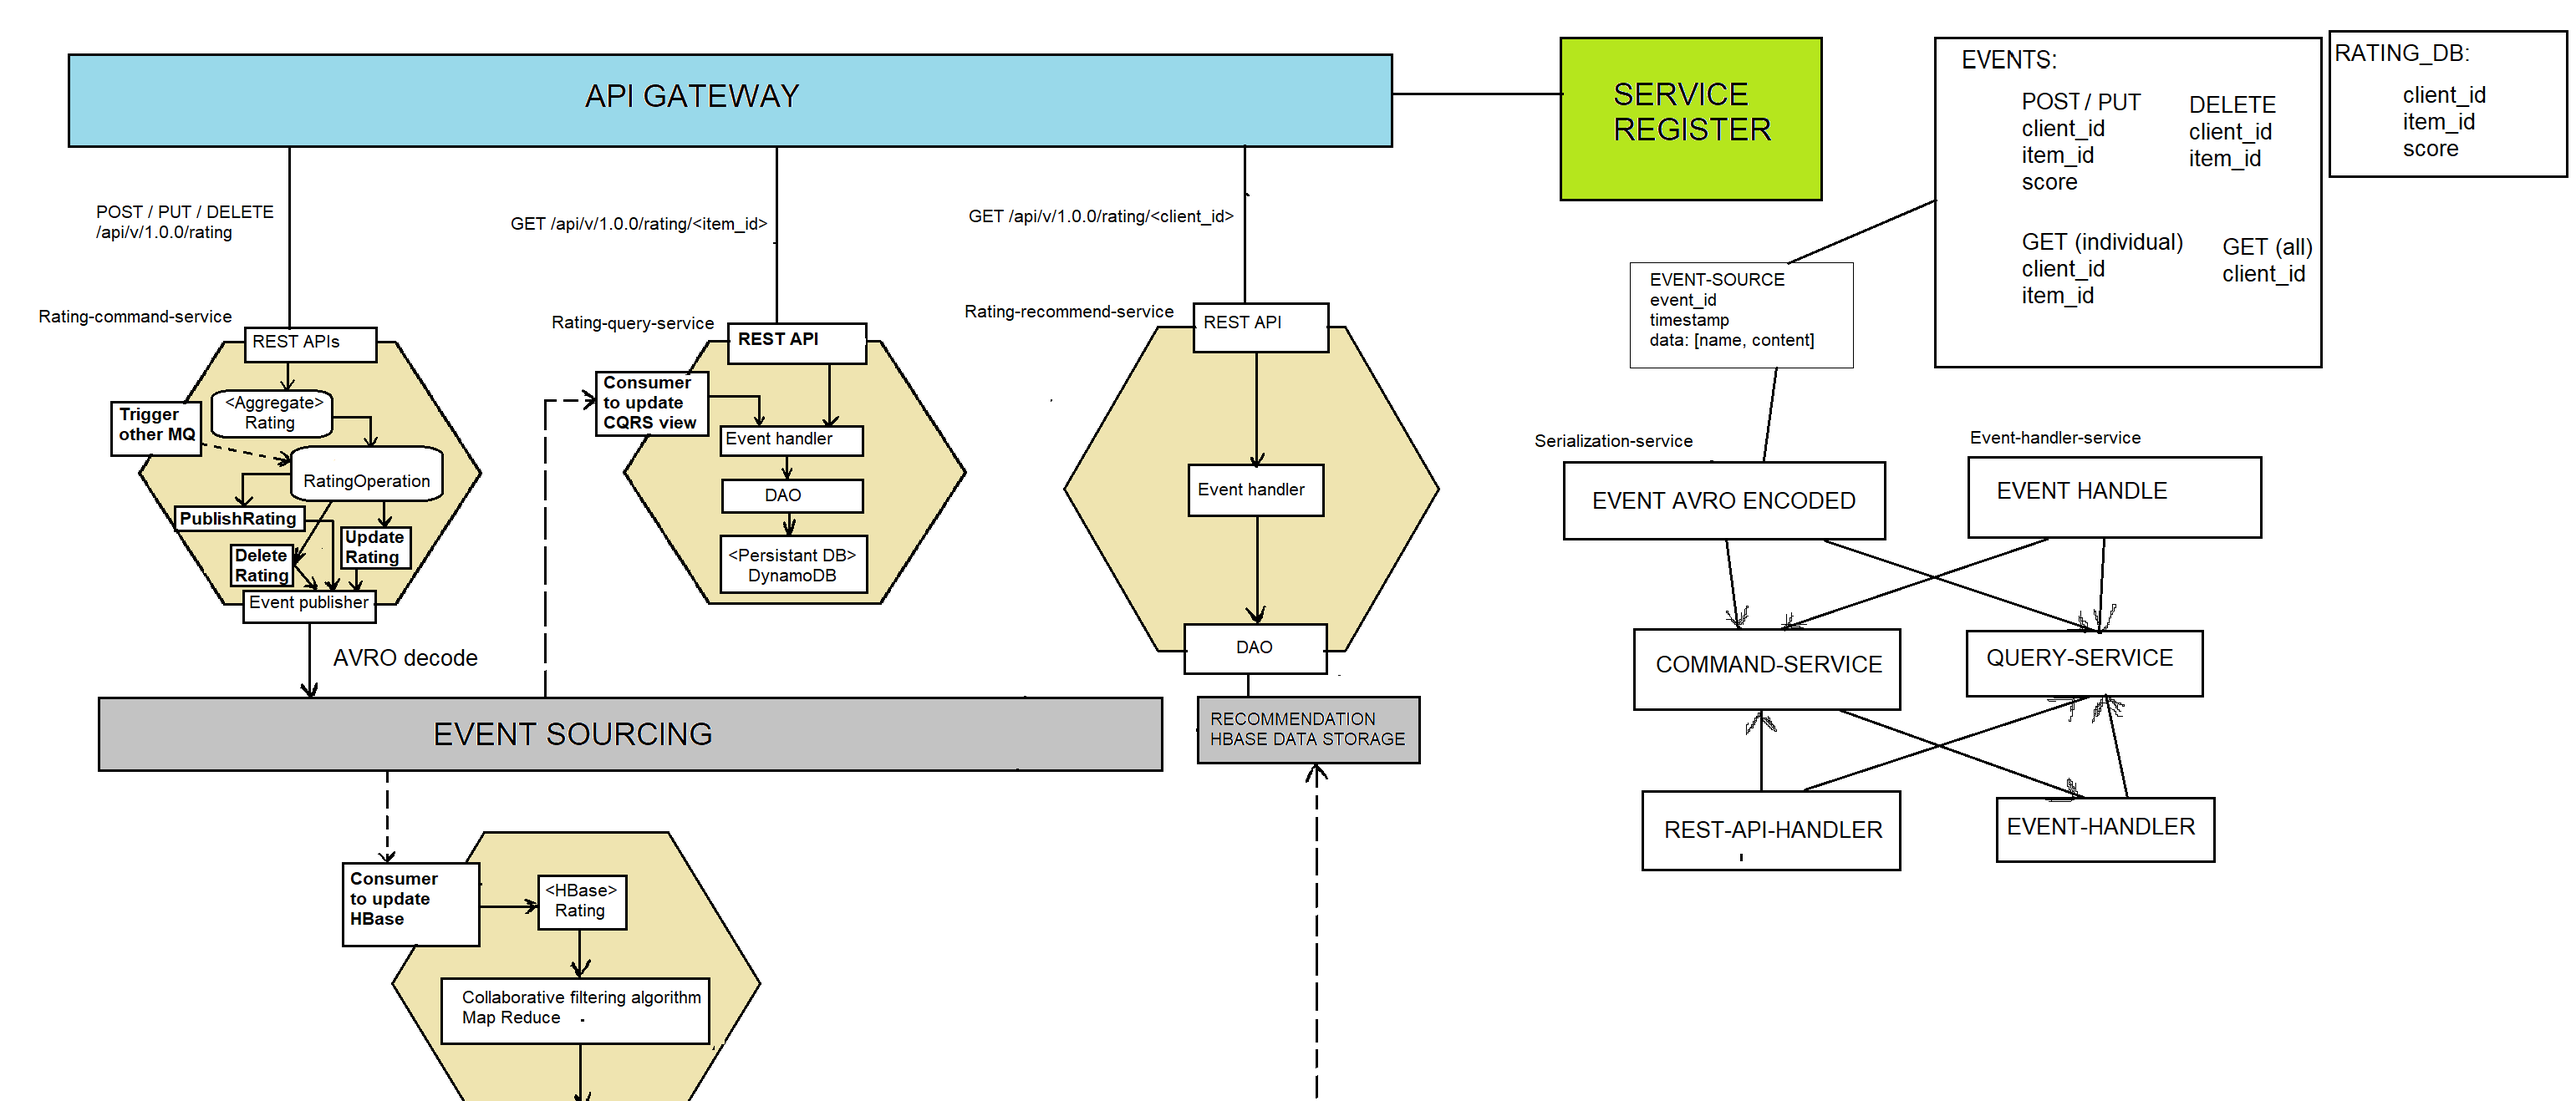
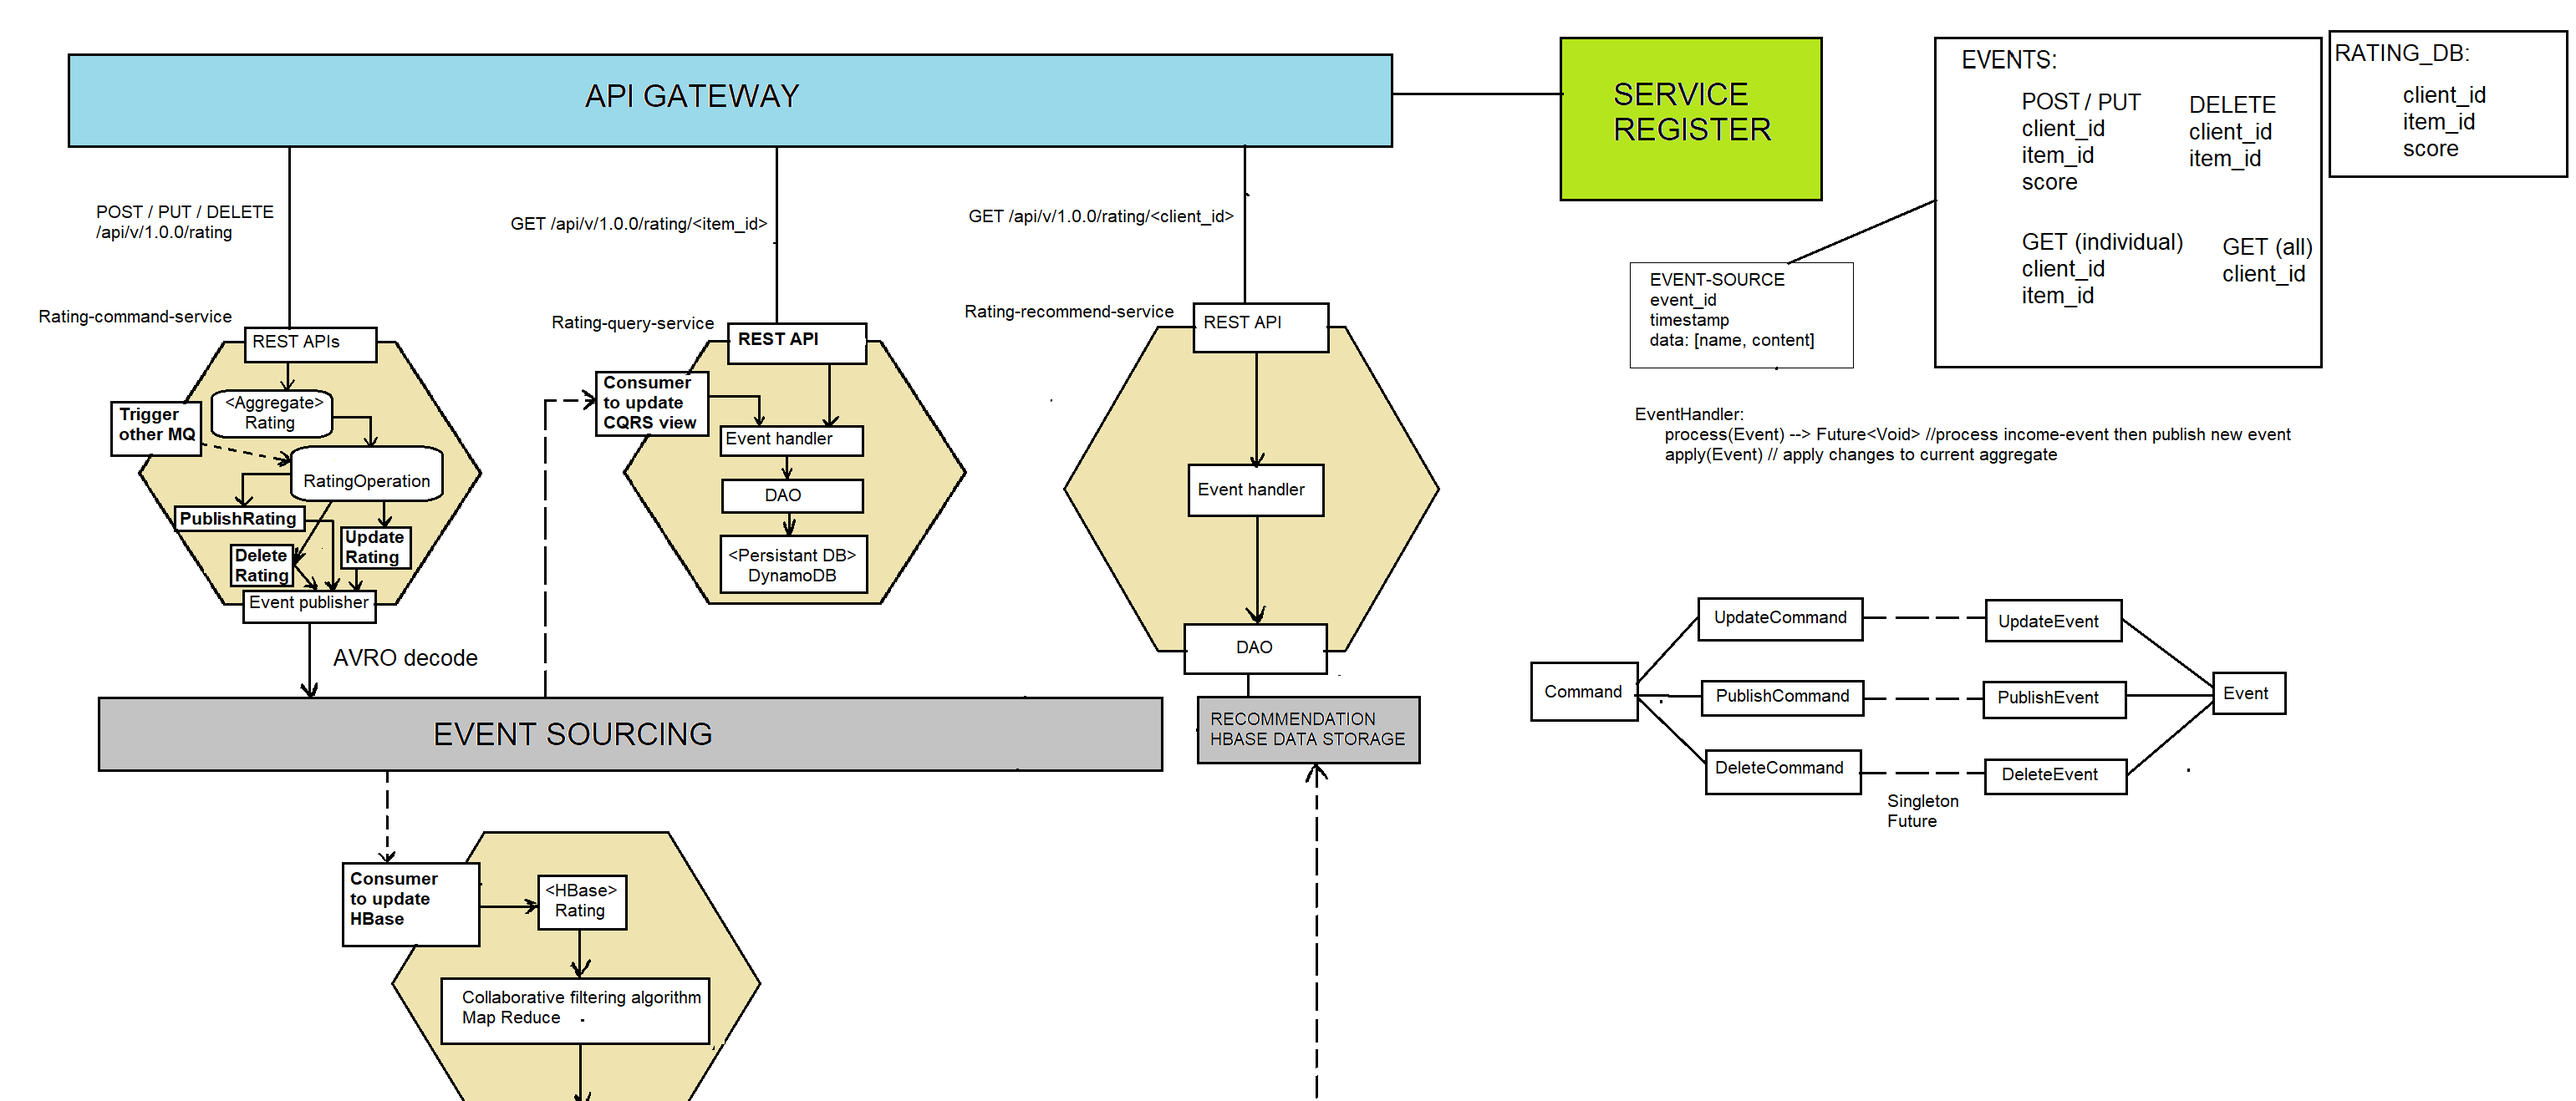
define rating command service

Changed region(s): [[0.5918, 0.5288, 0.9033, 0.7777], [0.5918, 0.3733, 0.8722, 0.4666]]

diff --git a/services/recommender_service/command-rating-service/src/main/java/vn/datnguyen/recommender/Domain/DeleteRatingCommand.java b/services/recommender_service/command-rating-service/src/main/java/vn/datnguyen/recommender/Domain/DeleteRatingCommand.java
@@ -1,16 +1,14 @@
-package vn.datnguyen.recommender.Commands;
+package vn.datnguyen.recommender.Domain;
 
 import java.util.Locale;
 
-public class PublishRatingCommand extends Command {
+public class DeleteRatingCommand extends Command {
     private String clientId; 
     private String itemId; 
-    private int score; 
 
-    public PublishRatingCommand(String clientId, String itemId, int score) {
+    public DeleteRatingCommand(String clientId, String itemId) {
         this.clientId = clientId; 
         this.itemId = itemId; 
-        this.score = score;
     }
 
     public String getClientId() {
@@ -29,18 +27,10 @@ public class PublishRatingCommand extends Command {
         this.itemId = itemId;
     }
 
-    public int getScore() {
-        return this.score;
-    }
-
-    public void setScore(int score) {
-        this.score = score;
-    }
-
     @Override
     public String toString() {
         return String.format(Locale.getDefault(), 
-                            "PublishRatingCommand(clientId=%s,itemId=%s,score=%d)",
-                            getClientId(), getItemId(), getScore());
+                            "DeleteRatingCommand(clientId=%s,itemId=%s)",
+                            getClientId(), getItemId());
     }
 }

diff --git a/services/recommender_service/command-rating-service/src/main/java/vn/datnguyen/recommender/Domain/UpdateRatingCommand.java b/services/recommender_service/command-rating-service/src/main/java/vn/datnguyen/recommender/Domain/UpdateRatingCommand.java
@@ -1,14 +1,16 @@
-package vn.datnguyen.recommender.Commands;
+package vn.datnguyen.recommender.Domain;
 
 import java.util.Locale;
 
-public class DeleteRatingCommand extends Command {
+public class UpdateRatingCommand extends Command {
     private String clientId; 
     private String itemId; 
+    private int score; 
 
-    public DeleteRatingCommand(String clientId, String itemId) {
+    public UpdateRatingCommand(String clientId, String itemId, int score) {
         this.clientId = clientId; 
         this.itemId = itemId; 
+        this.score = score;
     }
 
     public String getClientId() {
@@ -27,10 +29,18 @@ public class DeleteRatingCommand extends Command {
         this.itemId = itemId;
     }
 
+    public int getScore() {
+        return this.score;
+    }
+
+    public void setScore(int score) {
+        this.score = score;
+    }
+
     @Override
     public String toString() {
         return String.format(Locale.getDefault(), 
-                            "DeleteRatingCommand(clientId=%s,itemId=%s)",
-                            getClientId(), getItemId());
+                            "UpdateRatingCommand(clientId=%s,itemId=%s,score=%d)",
+                            getClientId(), getItemId(), getScore());
     }
 }

diff --git a/services/recommender_service/event-handler-common/src/main/java/vn/datnguyen/recommender/Domain/UpdateRatingEvent.java b/services/recommender_service/event-handler-common/src/main/java/vn/datnguyen/recommender/Domain/UpdateRatingEvent.java
@@ -1,14 +1,13 @@
-package vn.datnguyen.recommender.event;
+package vn.datnguyen.recommender.Domain;
 
 import java.util.Locale;
 
-public class PublishRatingEvent extends Event {
-
+public class UpdateRatingEvent extends Event {
     private final String clientId; 
     private final String itemId; 
     private final int score;
 
-    public PublishRatingEvent(final String clientId, final String itemId, final int score) {
+    public UpdateRatingEvent(final String clientId, final String itemId, final int score) {
         super();
         this.clientId = clientId; 
         this.itemId = itemId; 
@@ -30,8 +29,7 @@ public class PublishRatingEvent extends Event {
     @Override
     public String toString() {
         return String.format(Locale.getDefault(), 
-                "PublishRatingEvent{eventId=%s, clientId=%s, itemId=%s, score=%d}",
+                "UpdateRatingEvent{eventId=%s, clientId=%s, itemId=%s, score=%d}",
                 this.getEventId(), this.clientId, this.itemId, this.score);
     }
-    
 }

diff --git a/services/recommender_service/event-handler-common/src/main/java/vn/datnguyen/recommender/Domain/PublishRatingEvent.java b/services/recommender_service/event-handler-common/src/main/java/vn/datnguyen/recommender/Domain/PublishRatingEvent.java
@@ -1,13 +1,14 @@
-package vn.datnguyen.recommender.event;
+package vn.datnguyen.recommender.Domain;
 
 import java.util.Locale;
 
-public class UpdateRatingEvent extends Event {
+public class PublishRatingEvent extends Event {
+
     private final String clientId; 
     private final String itemId; 
     private final int score;
 
-    public UpdateRatingEvent(final String clientId, final String itemId, final int score) {
+    public PublishRatingEvent(final String clientId, final String itemId, final int score) {
         super();
         this.clientId = clientId; 
         this.itemId = itemId; 
@@ -29,7 +30,8 @@ public class UpdateRatingEvent extends Event {
     @Override
     public String toString() {
         return String.format(Locale.getDefault(), 
-                "UpdateRatingEvent{eventId=%s, clientId=%s, itemId=%s, score=%d}",
+                "PublishRatingEvent{eventId=%s, clientId=%s, itemId=%s, score=%d}",
                 this.getEventId(), this.clientId, this.itemId, this.score);
     }
+    
 }

diff --git a/services/recommender_service/command-rating-service/src/main/java/vn/datnguyen/recommender/Domain/PublishRatingCommand.java b/services/recommender_service/command-rating-service/src/main/java/vn/datnguyen/recommender/Domain/PublishRatingCommand.java
@@ -1,13 +1,13 @@
-package vn.datnguyen.recommender.Commands;
+package vn.datnguyen.recommender.Domain;
 
 import java.util.Locale;
 
-public class UpdateRatingCommand extends Command {
+public class PublishRatingCommand extends Command {
     private String clientId; 
     private String itemId; 
     private int score; 
 
-    public UpdateRatingCommand(String clientId, String itemId, int score) {
+    public PublishRatingCommand(String clientId, String itemId, int score) {
         this.clientId = clientId; 
         this.itemId = itemId; 
         this.score = score;
@@ -40,7 +40,7 @@ public class UpdateRatingCommand extends Command {
     @Override
     public String toString() {
         return String.format(Locale.getDefault(), 
-                            "UpdateRatingCommand(clientId=%s,itemId=%s,score=%d)",
+                            "PublishRatingCommand(clientId=%s,itemId=%s,score=%d)",
                             getClientId(), getItemId(), getScore());
     }
 }

diff --git a/services/recommender_service/command-rating-service/src/main/java/vn/datnguyen/recommender/Web/ApiController.java b/services/recommender_service/command-rating-service/src/main/java/vn/datnguyen/recommender/Web/ApiController.java
@@ -10,9 +10,9 @@ import org.springframework.web.bind.annotation.RequestBody;
 import org.springframework.web.bind.annotation.RequestMapping;
 import org.springframework.web.bind.annotation.RestController;
 
-import vn.datnguyen.recommender.Commands.DeleteRatingCommand;
-import vn.datnguyen.recommender.Commands.PublishRatingCommand;
-import vn.datnguyen.recommender.Commands.UpdateRatingCommand;
+import vn.datnguyen.recommender.Domain.DeleteRatingCommand;
+import vn.datnguyen.recommender.Domain.PublishRatingCommand;
+import vn.datnguyen.recommender.Domain.UpdateRatingCommand;
 
 @RestController
 @RequestMapping("/api/v/1.0.0/rating")

diff --git a/services/recommender_service/command-rating-service/src/main/java/vn/datnguyen/recommender/Handler/RatingService.java b/services/recommender_service/command-rating-service/src/main/java/vn/datnguyen/recommender/Handler/RatingService.java
@@ -1,0 +1,25 @@
+package vn.datnguyen.recommender.Handler;
+
+import java.util.concurrent.CompletableFuture;
+
+import org.springframework.stereotype.Service;
+
+import vn.datnguyen.recommender.Domain.Command;
+import vn.datnguyen.recommender.Domain.Event;
+
+@Service
+public class RatingService implements CommandHandler, EventHandler {
+    
+    @Override
+    public CompletableFuture<Void> process(Command command) {
+        return null;
+    }
+
+    @Override
+    public CompletableFuture<Void> process(Event event) {
+        return null;
+    }
+
+    @Override
+    public void apply(Event event) {}
+}

diff --git a/services/recommender_service/event-handler-common/src/main/java/vn/datnguyen/recommender/Handler/EventHandler.java b/services/recommender_service/event-handler-common/src/main/java/vn/datnguyen/recommender/Handler/EventHandler.java
@@ -1,7 +1,10 @@
-package vn.datnguyen.recommender.event;
+package vn.datnguyen.recommender.Handler;
 
 import java.util.concurrent.CompletableFuture;
 
+import vn.datnguyen.recommender.Domain.Event;
+
 public interface EventHandler {
     CompletableFuture<Void> process(Event event);
+    void apply(Event event);
 }

diff --git a/services/recommender_service/command-rating-service/src/main/java/vn/datnguyen/recommender/Handler/CommandHandler.java b/services/recommender_service/command-rating-service/src/main/java/vn/datnguyen/recommender/Handler/CommandHandler.java
@@ -1,6 +1,8 @@
-package vn.datnguyen.recommender.Commands;
+package vn.datnguyen.recommender.Handler;
 
 import java.util.concurrent.CompletableFuture;
+
+import vn.datnguyen.recommender.Domain.Command;
 
 public interface CommandHandler {
     CompletableFuture<Void> process(Command command);

diff --git a/services/recommender_service/command-rating-service/src/main/java/vn/datnguyen/recommender/Domain/Command.java b/services/recommender_service/command-rating-service/src/main/java/vn/datnguyen/recommender/Domain/Command.java
@@ -1,4 +1,4 @@
-package vn.datnguyen.recommender.Commands;
+package vn.datnguyen.recommender.Domain;
 
 abstract public class Command {
     public Command() {}

diff --git a/services/recommender_service/event-handler-common/src/main/java/vn/datnguyen/recommender/Domain/DeleteRatingEvent.java b/services/recommender_service/event-handler-common/src/main/java/vn/datnguyen/recommender/Domain/DeleteRatingEvent.java
@@ -1,4 +1,4 @@
-package vn.datnguyen.recommender.event;
+package vn.datnguyen.recommender.Domain;
 
 import java.util.Locale;
 

diff --git a/services/recommender_service/event-handler-common/src/main/java/vn/datnguyen/recommender/Domain/Event.java b/services/recommender_service/event-handler-common/src/main/java/vn/datnguyen/recommender/Domain/Event.java
@@ -1,4 +1,4 @@
-package vn.datnguyen.recommender.event;
+package vn.datnguyen.recommender.Domain;
 
 import java.util.UUID;
 
